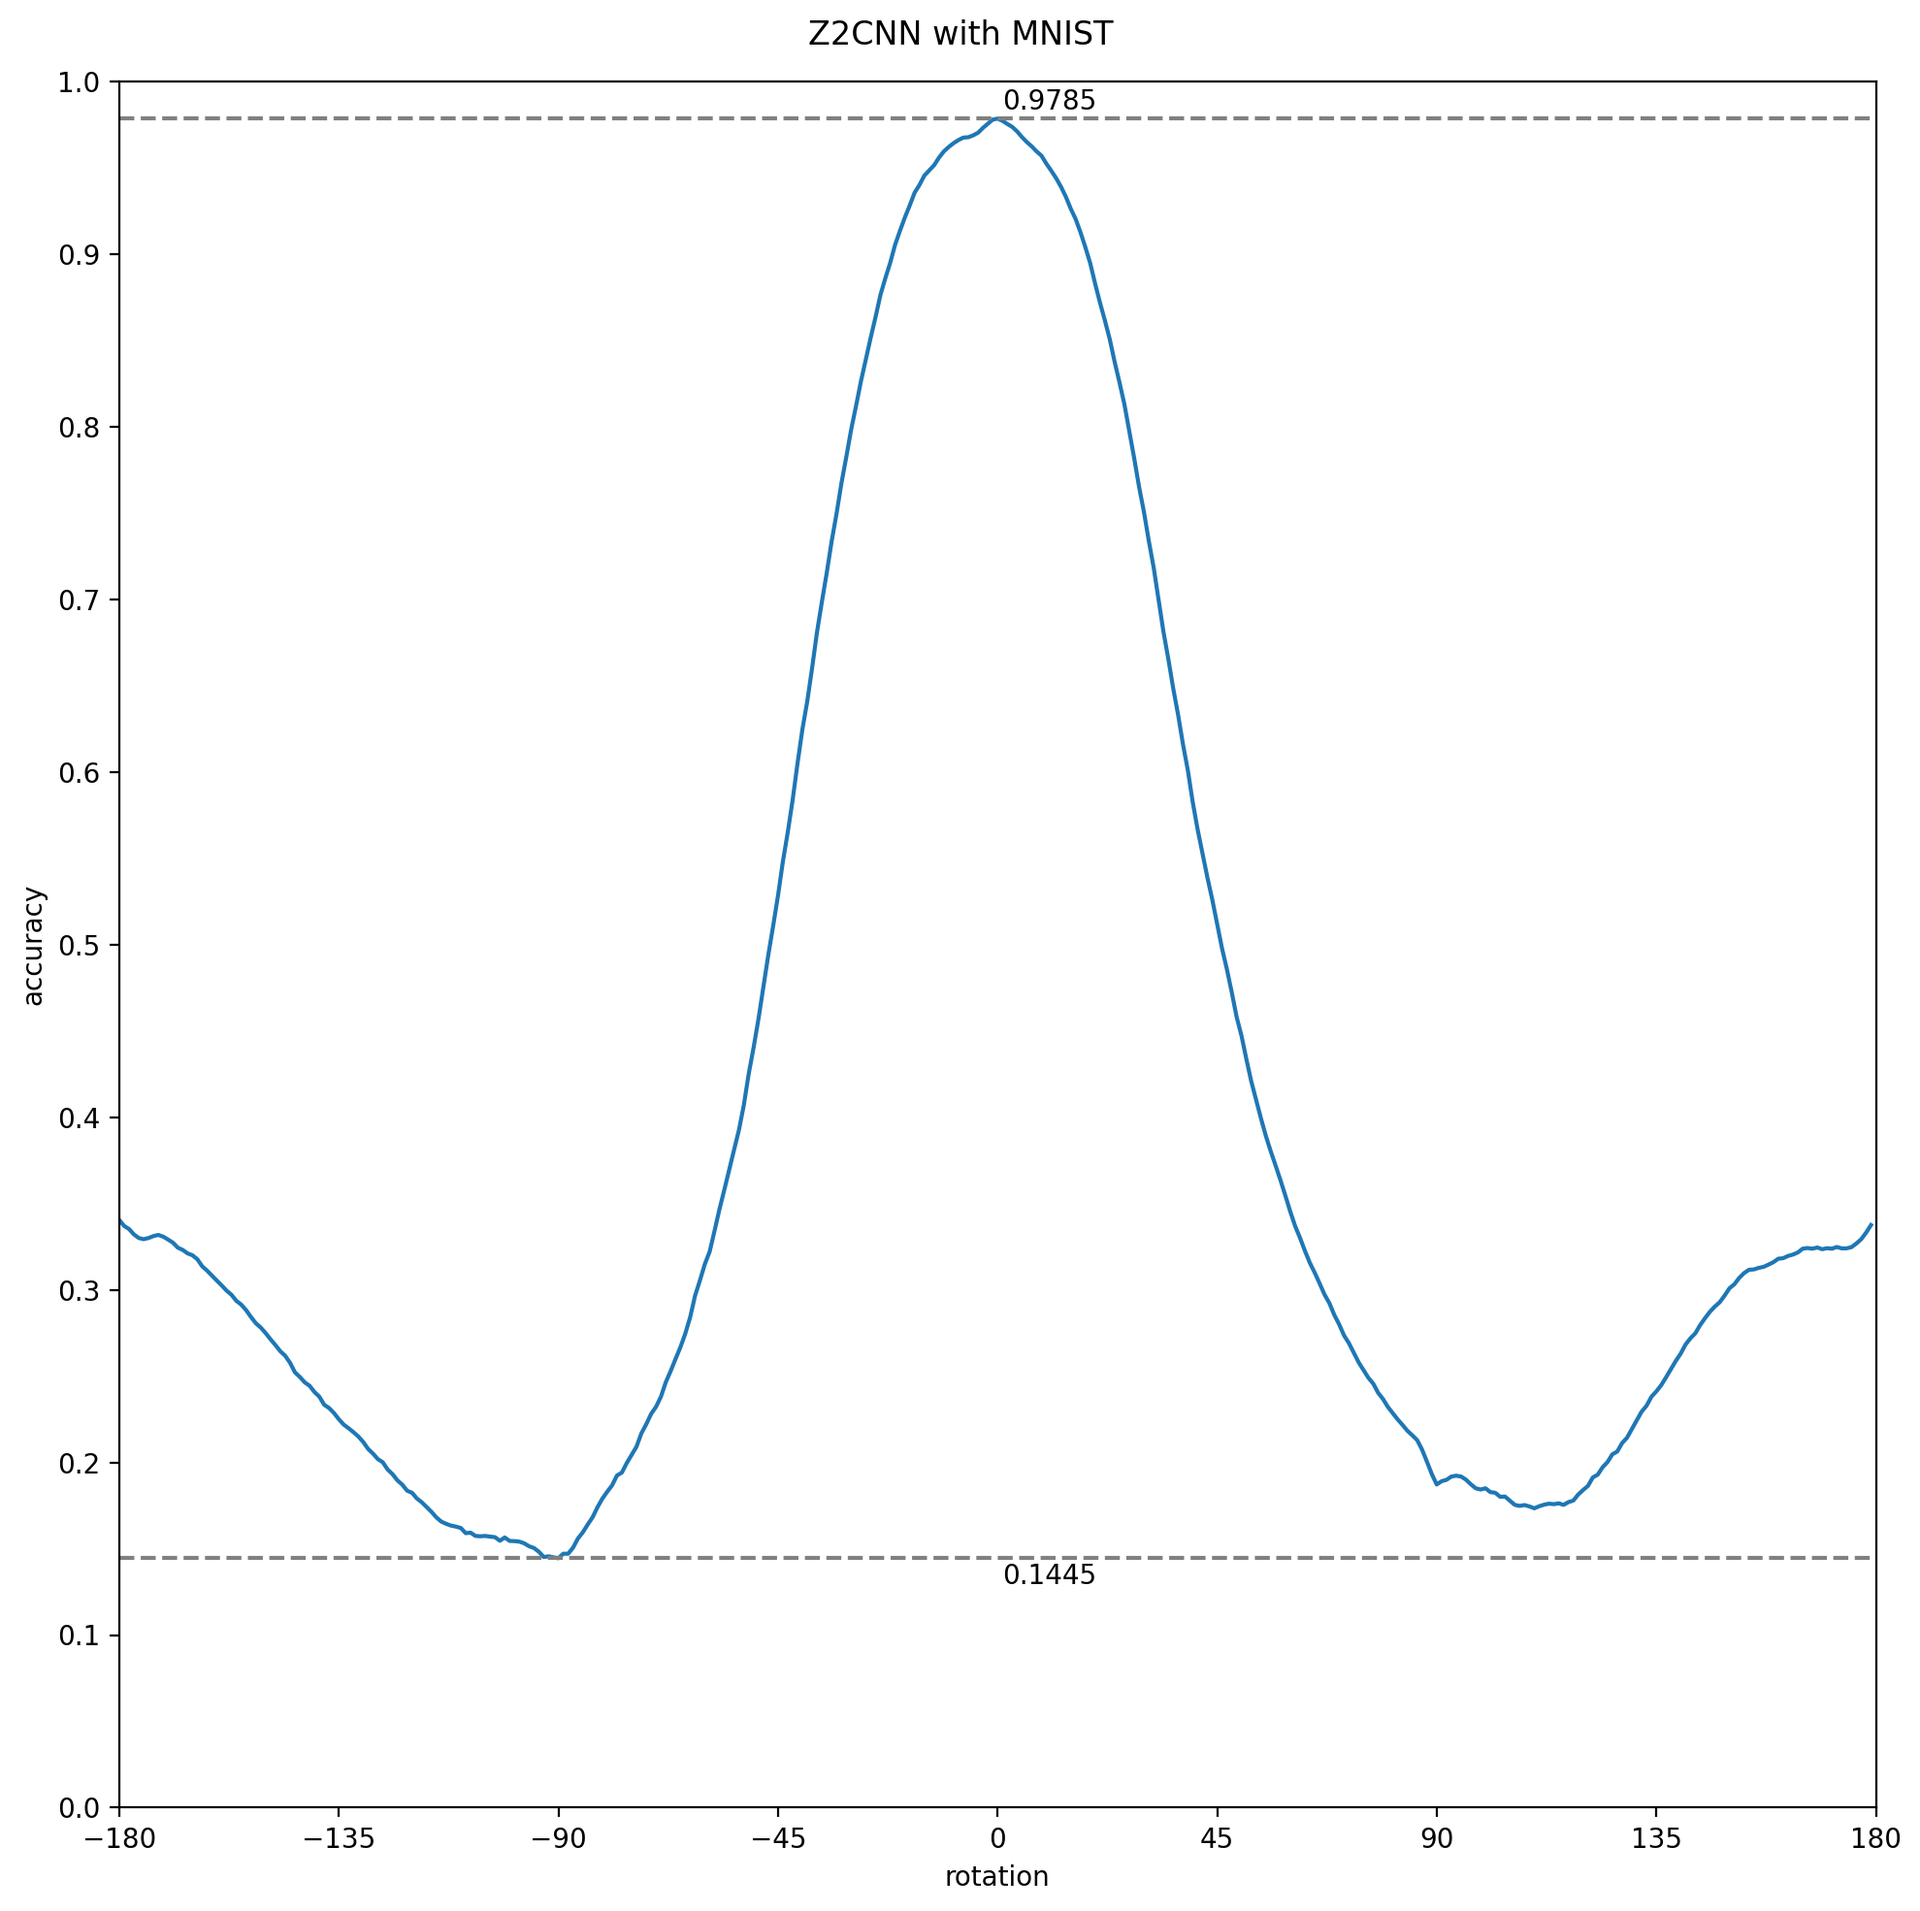
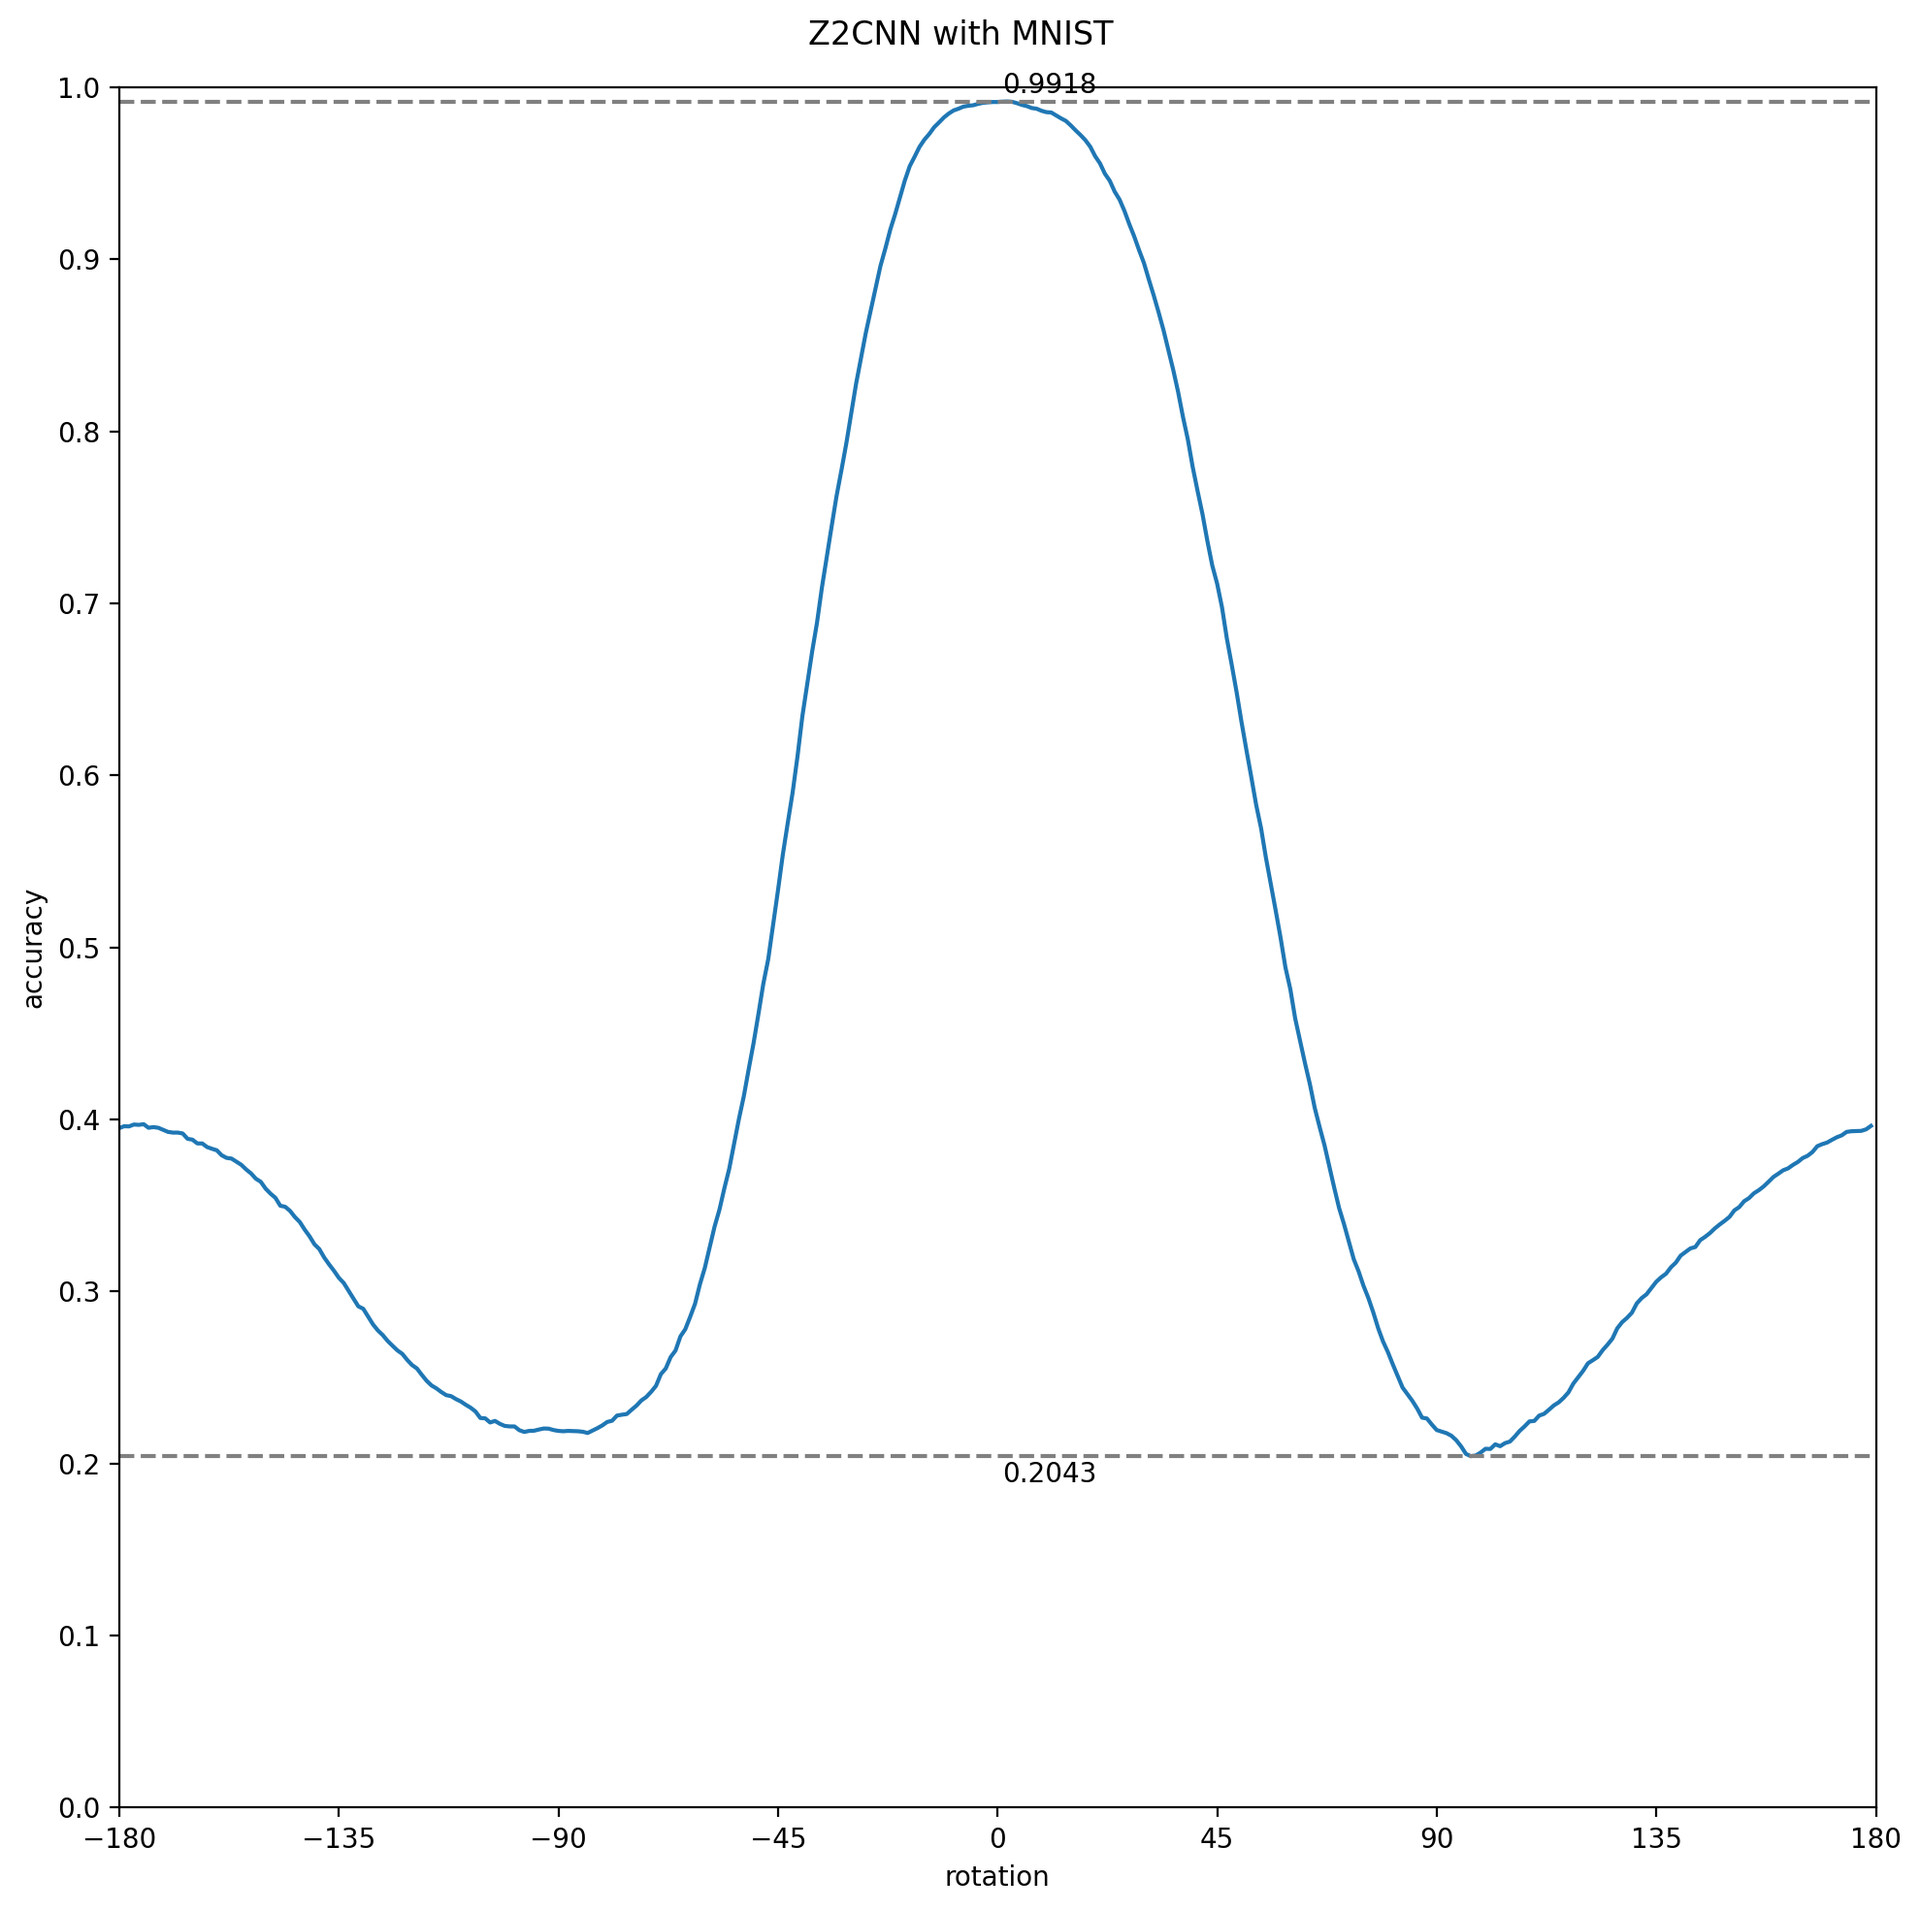
implemented activation layers to improve stability

diff --git a/models.py b/models.py
@@ -1,5 +1,6 @@
 import torch.nn as nn
 import torch.nn.functional as functional
+
 from groupy.gconv.pytorch_gconv.splitgconv2d import P4ConvZ2, P4ConvP4
 from groupy.gconv.pytorch_gconv.pooling import plane_group_spatial_max_pooling
 from layers import ConvEq2d
@@ -29,15 +30,15 @@ class ModelZ2CNN(nn.Module):
         self.fc = nn.Linear(20, 10)
 
     def forward(self, x):
-        x = self.cnn1(x)
-        x = self.cnn2(x)
+        x = functional.relu(self.cnn1(x))
+        x = functional.relu(self.cnn2(x))
         x = self.max1(x)
         x = self.norm(x)
-        x = self.cnn3(x)
-        x = self.cnn4(x)
-        x = self.cnn5(x)
-        x = self.cnn6(x)
-        x = self.cnn7(x)
+        x = functional.relu(self.cnn3(x))
+        x = functional.relu(self.cnn4(x))
+        x = functional.relu(self.cnn5(x))
+        x = functional.relu(self.cnn6(x))
+        x = functional.relu(self.cnn7(x))
         x = x.view(x.size()[0], -1)
         x = self.fc(x)
         return x
@@ -67,16 +68,14 @@ class ModelP4CNNP4(nn.Module):
         self.fc = nn.Linear(80, 10)
 
     def forward(self, x):
-        x = self.cnn1(x)
-        x = self.cnn2(x)
+        x = functional.relu(self.cnn1(x))
+        x = functional.relu(self.cnn2(x))
         x = plane_group_spatial_max_pooling(x, 2, 2)
-        # x = self.max1(x)
-        # x = self.norm(x)
-        x = self.cnn3(x)
-        x = self.cnn4(x)
-        x = self.cnn5(x)
-        x = self.cnn6(x)
-        x = self.cnn7(x)
+        x = functional.relu(self.cnn3(x))
+        x = functional.relu(self.cnn4(x))
+        x = functional.relu(self.cnn5(x))
+        x = functional.relu(self.cnn6(x))
+        x = functional.relu(self.cnn7(x))
         x = x.view(x.size()[0], -1)
         x = self.fc(x)
         return x

diff --git a/main.py b/main.py
@@ -149,14 +149,14 @@ def plot_evaluation_history(eval_history, title):
 if __name__ == '__main__':
     device = torch.device("cuda:0" if torch.cuda.is_available() else "cpu")
 
-    epochs = 5
+    epochs = 20
     learning_rate = 0.001
     momentum = 0.5  # Use this parameter with SDG optimizer.
     batch_size = 128
 
     train_loader, test_loader = load_datasets(rot_mnist=True)
 
-    model = ModelP4CNNP4().to(device)
+    model = ModelZ2CNN().to(device)
     print_model_info()
 
     ce_loss = nn.CrossEntropyLoss()
@@ -166,4 +166,4 @@ if __name__ == '__main__':
 
     print('Evaluating model with rotated images...')
     history = evaluate_360deg()
-    plot_evaluation_history(eval_history=history, title='P4CNNP4 with ROT-MNIST')
+    plot_evaluation_history(eval_history=history, title='Z2CNN with ROT-MNIST')
